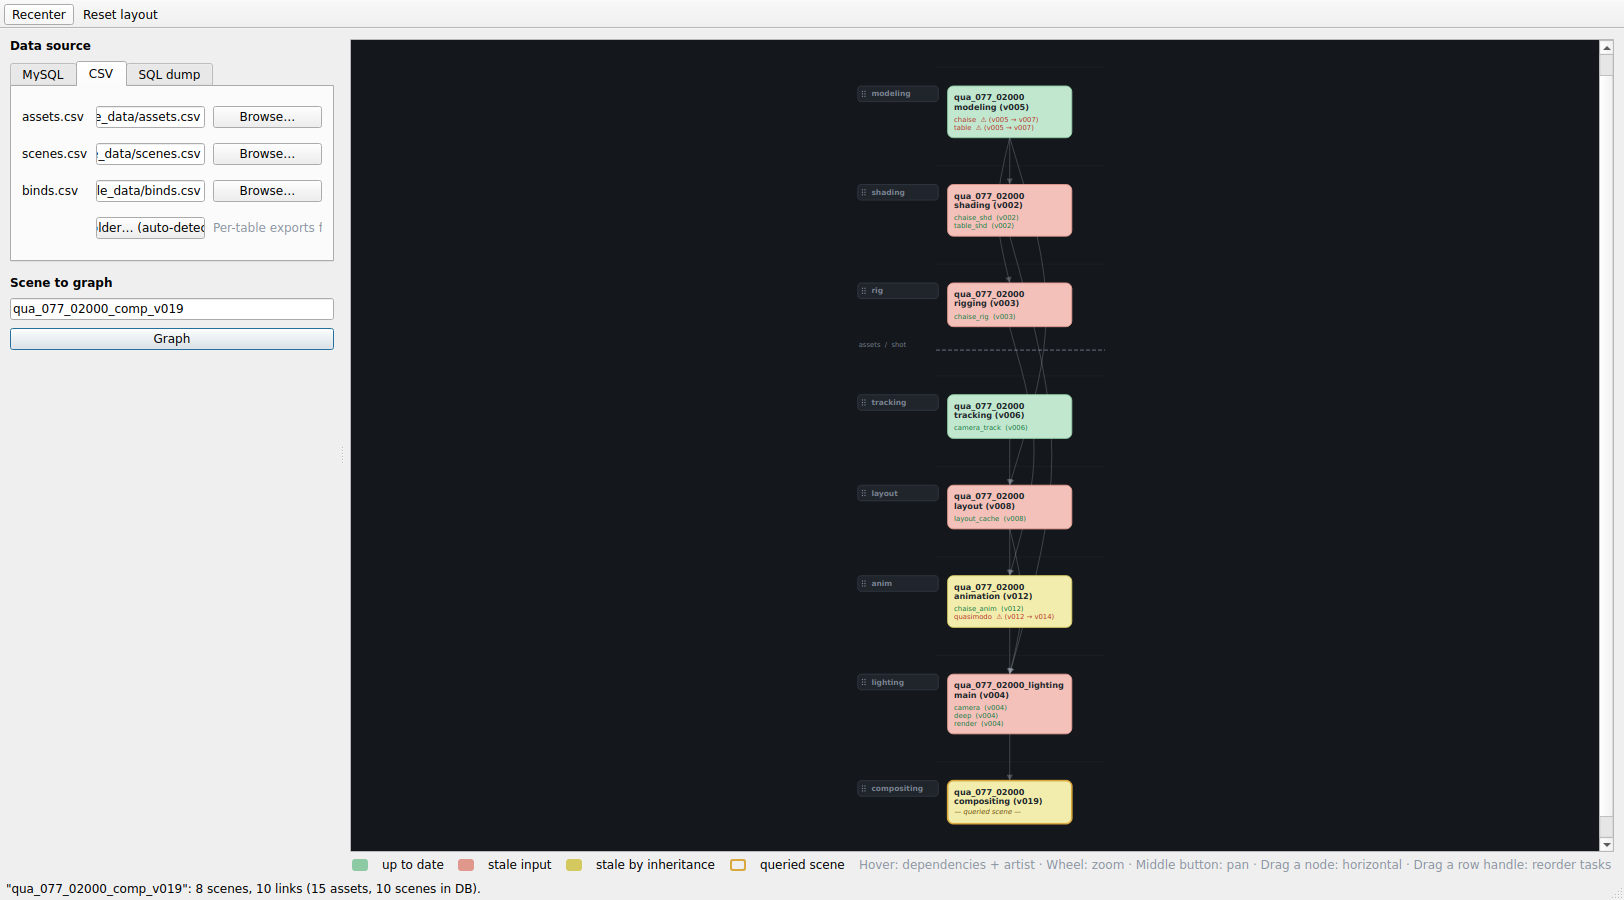
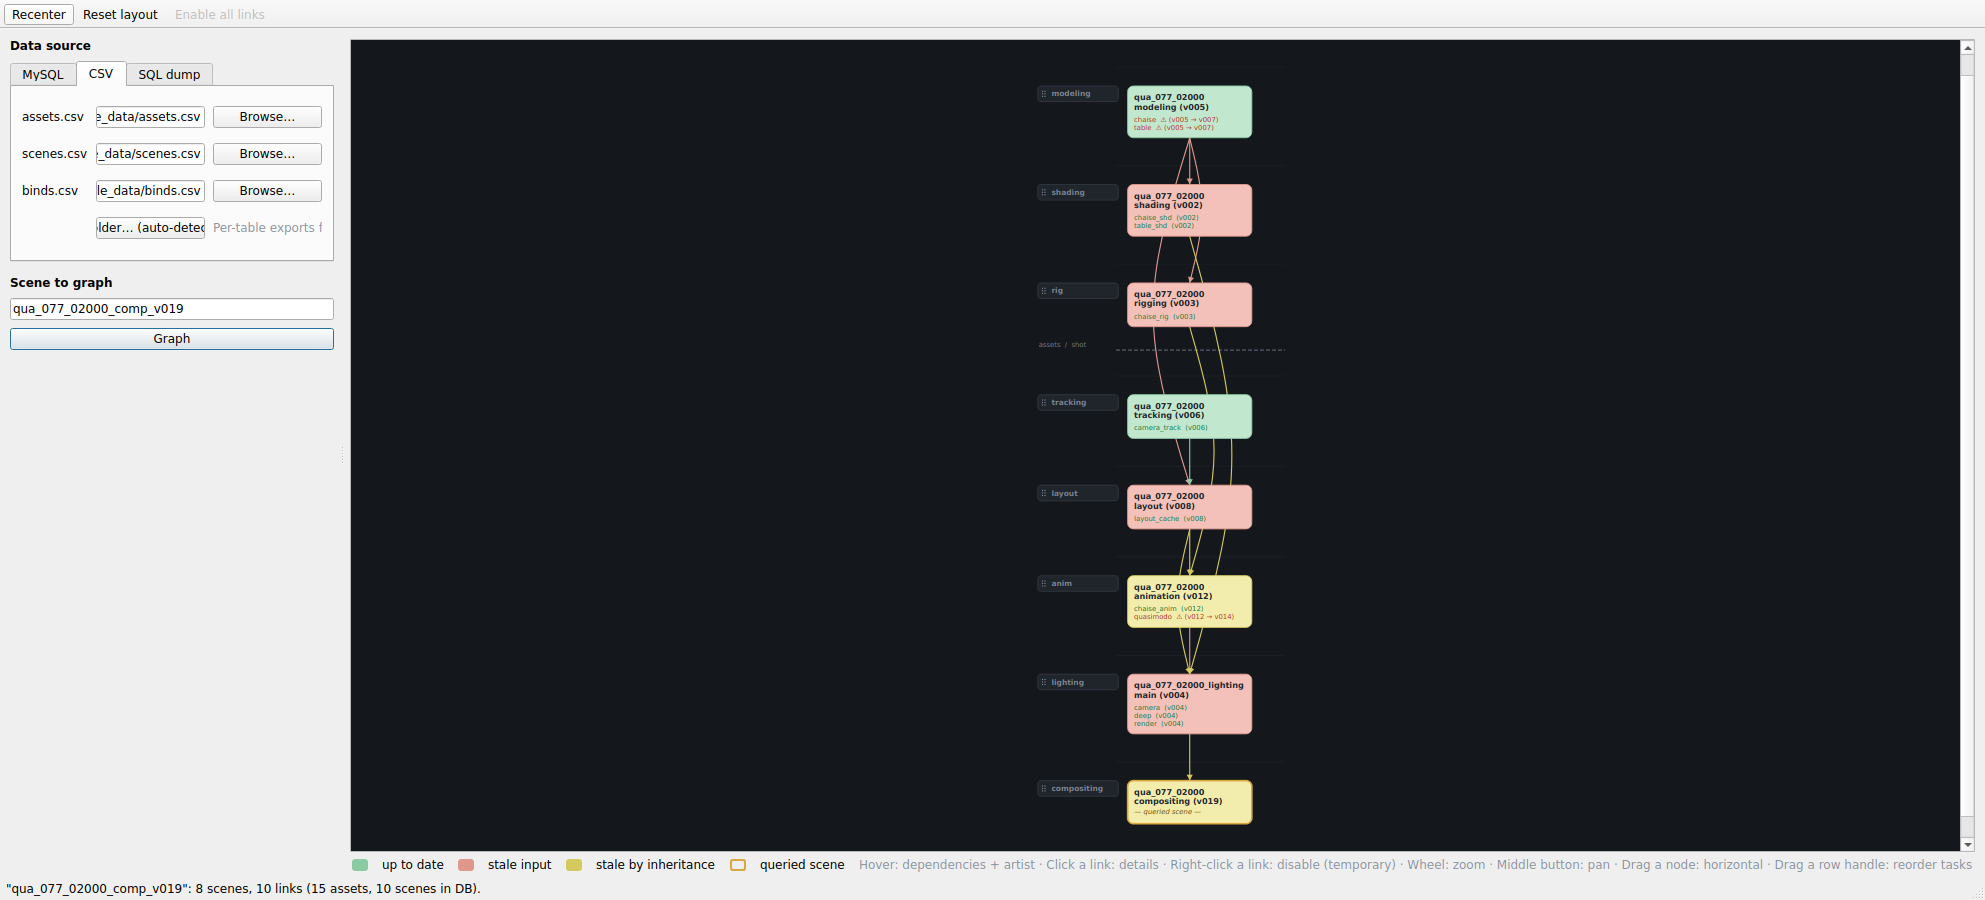
Rename the tool to Dedale
Window title, application name, README heading and the sample dump
header now say Dedale. The settings organisation and keyring service
are renamed too, with a one-off migration on first launch: existing
settings are copied over and the stored password is moved to the new
keyring service, deleting the old entry so no orphan credential is left
behind in the OS keyring.

Claude-Session: https://claude.ai/code/session_01GL1NrAAADWmdjd3Lex9oyP

diff --git a/main.py b/main.py
@@ -1,5 +1,5 @@
 #!/usr/bin/env python3
-"""Hydra — graphe interactif de dépendances de scènes (PySide6).
+"""Dedale — graphe interactif de dépendances de scènes (PySide6).
 
 Application de bureau native. À partir du nom d'une scène et d'une source de
 données (MySQL / CSV / dump SQL), affiche un graphe interactif des scènes dont
@@ -55,7 +55,12 @@ except Exception:  # pragma: no cover
     keyring = None
     _HAS_KEYRING = False
 
-_KEYRING_SERVICE = "Hydra-DependencyGraph"
+_KEYRING_SERVICE = "Dedale-DependencyGraph"
+_ORG = "Dedale"
+_APP = "DependencyGraph"
+# Anciens noms (outil renommé) : migrés au premier lancement.
+_LEGACY_KEYRING_SERVICE = "Hydra-DependencyGraph"
+_LEGACY_ORG = "Hydra"
 _DEFAULT_SCENE = "qua_077_02000_comp_v019"
 
 
@@ -143,10 +148,11 @@ class LinkDetailsDialog(QDialog):
 class MainWindow(QMainWindow):
     def __init__(self):
         super().__init__()
-        self.setWindowTitle("Hydra — Scene Dependency Graph")
+        self.setWindowTitle("Dedale — Scene Dependency Graph")
         self.resize(1280, 860)
 
-        self._settings = QSettings("Hydra", "DependencyGraph")
+        self._settings = QSettings(_ORG, _APP)
+        self._migrate_legacy_settings()
         # Cache des données par signature de source (en mémoire uniquement).
         self._data_cache = {}
         self._link_dialog = None
@@ -614,6 +620,35 @@ class MainWindow(QMainWindow):
 
     # --------------------------------------------------------- settings ----
 
+    def _migrate_legacy_settings(self):
+        """Reprend les réglages/mot de passe de l'ancien nom de l'outil.
+
+        L'outil s'appelait « Hydra » : on récupère une seule fois ses réglages
+        et son entrée de trousseau, puis on efface les anciens pour ne pas
+        laisser traîner un identifiant orphelin.
+        """
+        legacy = QSettings(_LEGACY_ORG, _APP)
+        keys = legacy.allKeys()
+        if keys and not self._settings.allKeys():
+            for key in keys:
+                self._settings.setValue(key, legacy.value(key))
+            self._settings.sync()
+        legacy_user = legacy.value("mysql/remember_user", "") or \
+            legacy.value("mysql/user", "")
+        if keys:
+            legacy.clear()
+            legacy.sync()
+
+        if not (_HAS_KEYRING and legacy_user):
+            return
+        try:
+            pwd = keyring.get_password(_LEGACY_KEYRING_SERVICE, legacy_user)
+            if pwd:
+                keyring.set_password(_KEYRING_SERVICE, legacy_user, pwd)
+            keyring.delete_password(_LEGACY_KEYRING_SERVICE, legacy_user)
+        except Exception:
+            pass   # rien de bloquant : au pire, à ressaisir une fois
+
     def _restore_settings(self):
         s = self._settings
         # Ancien réglage devenu obsolète (la base vient de $MYSQL_DATABASE) :
@@ -672,7 +707,7 @@ class MainWindow(QMainWindow):
 
 def main():
     app = QApplication(sys.argv)
-    app.setApplicationName("Hydra — Dependency Graph")
+    app.setApplicationName("Dedale — Dependency Graph")
     win = MainWindow()
     win.show()
     sys.exit(app.exec())

diff --git a/README.md b/README.md
@@ -1,4 +1,4 @@
-# Hydra — Graphe interactif de dépendances de scènes
+# Dedale — Graphe interactif de dépendances de scènes
 
 Application de bureau **native** (Python + **PySide6**) qui, à partir du nom
 d'une scène et d'une source de données, affiche un **graphe interactif** des
